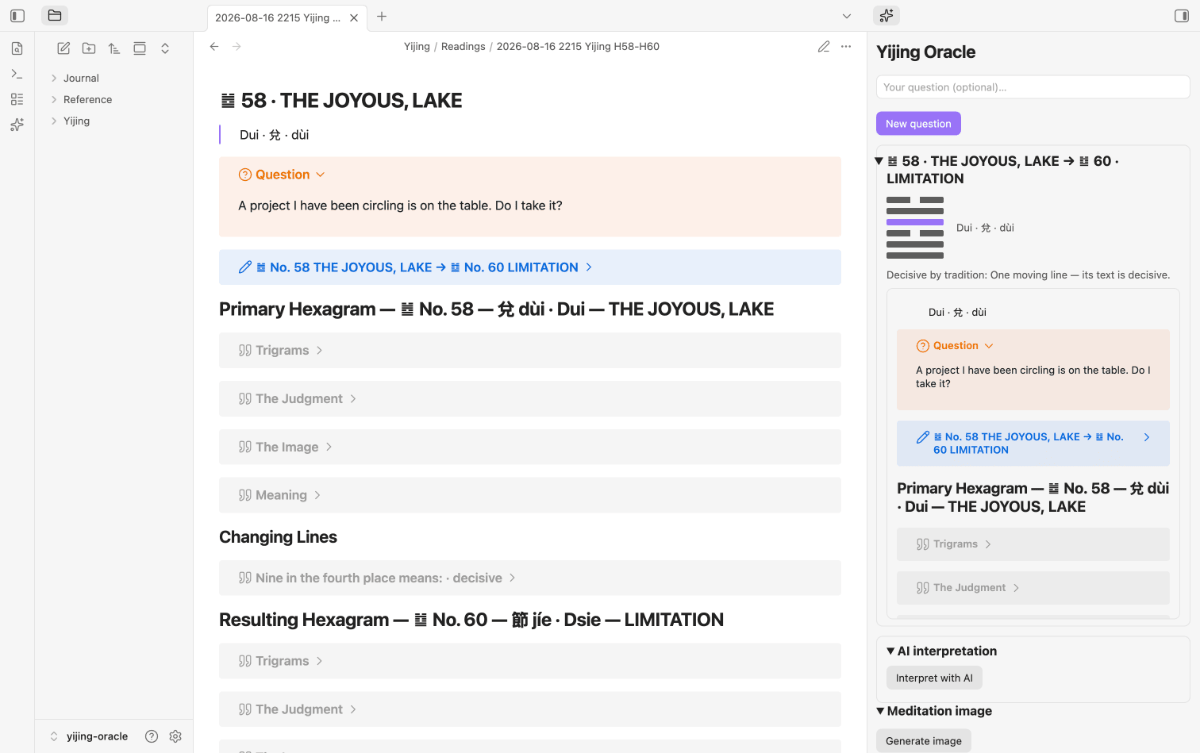
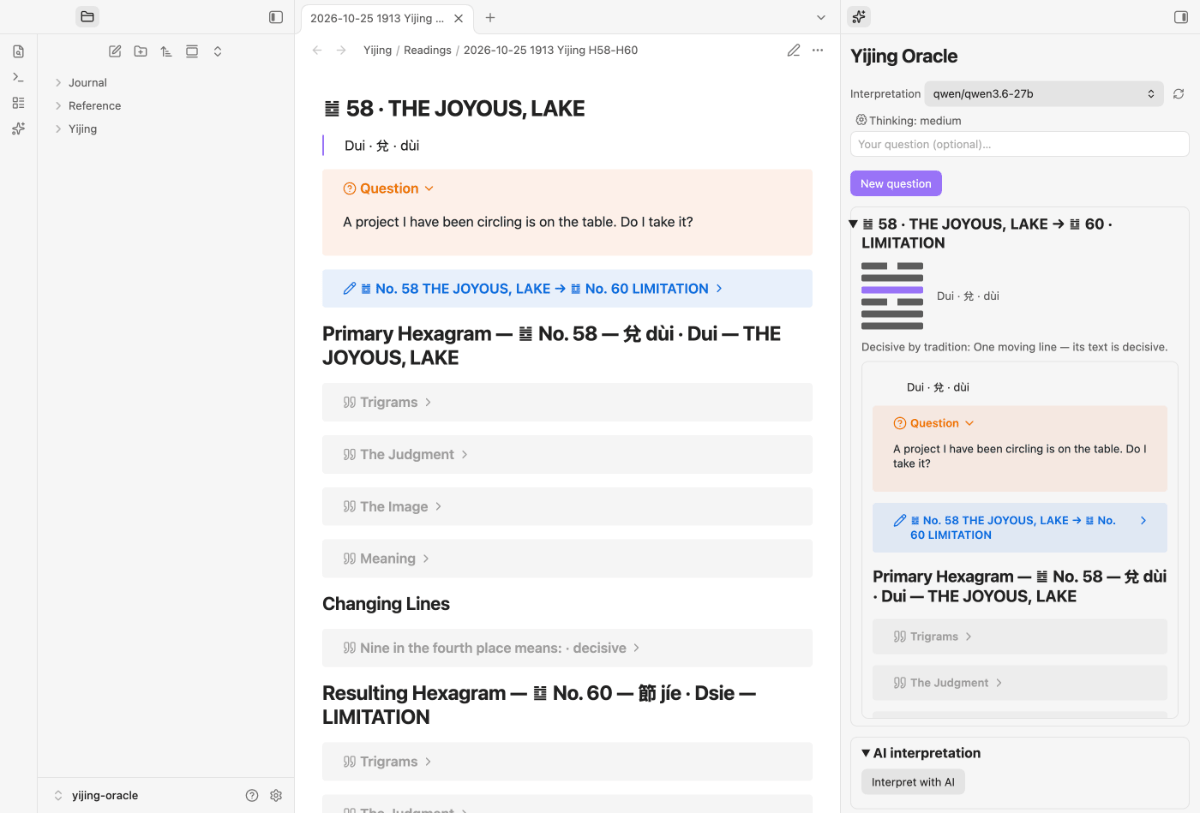
docs(images): hero.png und panel.png mit Modellzeile neu, Bild-Vertrag und SMOKE.md (Z-a bis Z-i, K-a bis K-c, Mutationsproben)
interpretation.png und artwork.png schneiden nur ihren Kasten aus und zeigen die Zeile nicht: unveraendert. Sichtung hell und dunkel bei 260 und 420 px: nichts laeuft ueber, lesbar.

diff --git a/docs/SMOKE.md b/docs/SMOKE.md
@@ -63,6 +63,8 @@ Er läuft im Staging-Vault `yijing-oracle` (`$STAGING_VAULTS_DIR`), nie im Arbei
 | N1–N6 | Abschnitt „Anfrage“ (Sampling-Profile, Modus creative): klappt auf · Bearbeitungen bleiben offen · gesendeter Body folgt Defaults und Einstellungen · Zurücksetzen · „Letzte Anfrage“ | — |
 | V1–V9 | Verbindung (Kit 0.53.0): eine Zeile mit Klartext-Schlüssel landet nach `resolve` im Schlüsselbund und nicht in `data.json` · der Schlüssel geht als Bearer an den Endpunkt · ein Geheimnis in der Frage geht als Platzhalter an den Draht (nicht im Klartext) und kommt in der Deutung im Original zurück · eine Antwort mit Bild-URL und Platzhalter erzeugt kein `img` · ein `dataviewjs`-Block rendert als Text · V9: eine Zeile ohne Modell bekommt das erste Listenmodell über `setModel` | — (neu mit dem Verbindungs-Tausch; Gegenproben: Neutralisierung entfernt → V5/V6 rot, `redact: false` → V3/V4 rot) |
 | V7–V8 | Gespeicherte Deutung: die Notiz trägt die entschärfte Form (```` ```text ```` statt `dataviewjs` und `mermaid`, kein Fernbild, auch nicht als Referenz-Definition mit Zeilenumbruch im Label), und der Zähler am Draht des Fake-Servers bleibt beim Speichern 0 | — (Gegenprobe code-kit 0.16.0 im Vendor: V7/V8 rot, `GET /pixel` 2) |
+| Z-a–Z-i | Modellzeile (Kit `buildModelBar`, Welle 27; Stub mit drei Modellen): genau eine Zeile direkt unter dem Titel mit `aria-label` (a) · das Dropdown listet die Modelle plus Automatisch (b) · ein Wechsel geht als Modell an den Draht (c) · gesperrt, solange die Deutung streamt, danach frei (d) · gesperrt auch im Fenster zwischen Klick und Streambeginn (ein TCP-Vorsatz verzögert jede Anfrage um 1,5 s; der Stream-Bereich ist da noch nicht gebaut) (d2) · die Denk-Steuerung steht in der Zeile, kein zweiter Knopf (e) · bei 260 px Panelbreite läuft nichts über den Rand (f) · ein Modell- und Denkstufen-Wechsel außerhalb der Zeile erscheint in ihr, ohne dass das Panel neu zeichnet (Marke am Element bleibt) (g) · nach Wurf, Deutung und Abbruch bleibt es bei einer Zeile (h) · nach einem Start ohne Endpunkt (Frühausstieg ohne Neuzeichnen) ist die Zeile wieder frei (i) | — (Welle 27; Mutationsproben unten) |
+| K-a–K-c | Linkschutz der Deutung (Kit `dom-guard`, obsidian-kit 0.70.0): im Default verlieren `obsidian://`-, `file:`- und `app:`-Links der fertigen Deutung ihr Ziel, ein https-Link behält es (a) · mit dem Schalter bleibt der `obsidian://`-Link, `file:` und `app:` gehen weiter (b) · die zwei Zeilen stehen im Einstellungen-Tab, ein Klick auf den Schalter schreibt sein Feld (c) | — (Welle 27) |
 
 > [!bug] M1 war bis 2026-10-09 rot, ohne je gemessen zu haben
 > `wurzelAusdruck(ui)` lieferte im Einstellungen-Fenster `document`, und `Document.textContent` ist immer `null`: M1 las den Leerstring, fand den Manager-Text „nicht“ und blieb rot — die Baseline führte das als vorbestehenden Plugin-Befund. Gemessen wird jetzt an `document.body`, und M1/M3 warten, bis der Tab gezeichnet ist. **Ein Prüfpunkt, der immer rot ist, hat seinen Prüfling vielleicht nie berührt** (CORE-TEST-15). Der Cockpit-Befund „Settings-Tab zeigt einen neu installierten Manager nicht sofort“ stammte aus genau dieser Fehlmessung; M1b misst den Fall (Tab gecacht, Manager danach installiert, Rückkehr von einem anderen Tab) mit gültiger Leseart und ist grün.
@@ -213,10 +215,30 @@ beide**:
 > Fehler, die in ihm stecken** — der zweite war zwei Wochen unsichtbar, weil der erste ihn nie
 > zur Ausführung kommen ließ.
 
+
+## Mutationsproben der Modellzeile und des Linkschutzes (Welle 27, 2026-10-25)
+
+Je eine Änderung im Quelltext, ein voller Lauf, danach zurückgestellt. Ergebnis „n von m“ = rote Punkte, die dazugehören, von allen roten.
+
+| Probe | Ergebnis |
+|---|---|
+| `bar.update()` nach `starting = true` entfernt | Z-d2 rot, 1 von 1 |
+| `bar.update()` im `finally` entfernt (Frühausstieg) | Z-i rot, 1 von 1 |
+| Nachziehen in `saveSettings` entfernt | Z-g rot, 1 von 1 |
+| `disabled` der Zeile entfernt | Z-d und Z-d2 rot, 2 von 2 |
+| `setModel` der Zeile wirkungslos | Z-c rot, 1 von 1 |
+| `destroy()` der alten Zeile vor dem Neubau entfernt | Smoke nicht unterscheidbar (0 rot): `root.empty()` entfernt die alte Wurzel im Panel ohnehin; die Unit-Probe (a) ist rot, 1 von 1 |
+| Wächter durch `MarkdownRenderer.render` ersetzt | K-a und K-b rot, 2 von 2 |
+| `allowObsidianLinks` im Aufruf fest `false` | K-b rot, 1 von 1 |
+| Gruppe „Links und Bilder in Antworten“ aus dem Tab entfernt | K-c rot, 1 von 1 |
+
+Die Unit-Tests (`tests/model-row.test.ts`, `tests/link-settings.test.ts`) fahren eigene Proben: acht an der Modellzeile (alle rot), fünf an den Link-Einstellungen (alle rot).
+
 ## Durchläufe
 
 | Datum | Obsidian | Ergebnis | Gegenprobe |
 |---|---|---|---|
+| 2026-10-25 | 1.14.5, Pin obsidian-kit 0.70.0 / code-kit 0.37.5, Lock `focus` bestätigt | **87 grün · 0 rot · 1 übersprungen (D10 ohne `--lig`) · 1 nichts gemessen (M4 ohne `--model`) von 89** (Baseline vor der Welle 74/0/1/1 von 76; neu Z-a–Z-i und K-a–K-c) | ✅ Mutationsproben der Modellzeile und des Linkschutzes: Tabelle oben. Die Proben liefen ohne bestätigten Lock (Skriptfehler, behoben), der Lauf in dieser Zeile unter bestätigtem Lock |
 | 2026-09-02 (3) | 1.13.7 (Catalyst), ohne Bildlauf | **27/27 · 2 Abschnitte nicht gelaufen** | ✅ Guard-Platzierung korrigiert (vor dem `try` → früh **im** `try`) und verifiziert: der Abbruchlauf zeigt jetzt die Aufräum-Ausgabe, `cdp.close()` läuft. Dabei fiel die `0/0 bestanden`-Bilanz auf (Exit wäre 0 gewesen) — behoben, Abbruch meldet jetzt „KEIN Pruefpunkt gelaufen“ mit Exit 1. Bestätigungslauf danach: 27/27, `npm-exit=0` |
 | 2026-09-02 (2) | 1.13.7 (Catalyst), ohne Bildlauf | **27/27 · 2 Abschnitte nicht gelaufen** | ✅ **Herkunfts-Guard im Positivfall gesehen**, mit dem eigenen Einbau: eine Kommentarzeile an die Vault-`main.js` (gültiges JS, das Plugin lief weiter) → Abbruch mit Byte- und sha1-Vergleich, **kein Prüfpunkt lief**. 101 Bytes reichten. Danach deployt → wieder still, 27/27. Damit ist sein Schweigen ein Messwert: „Build ist echt“, nicht „Guard tot“ |
 | 2026-09-02 | 1.13.7 (Catalyst), ohne Bildlauf (`--kein-bild`) | **27/27** | ✅ zwei Sabotagen **einzeln** gefahren, je genau ein Punkt rot und kein zweiter mit: `aliases` entfernt → F6 rot (26/27), Maskierung entfernt → F7 rot (26/27). **F6 war dabei zuerst blind** (s. o.) — der Fehler fiel nur auf, weil der Punkt trotz Sabotage grün BLIEB. Herkunft belegt: Drei-Datei-Hash vor jedem Lauf + Guard still. Staging-Vault `yijing-oracle`, nicht Pallas |

diff --git a/docs/images/README.md b/docs/images/README.md
@@ -10,8 +10,8 @@ hier **nicht** wiederholt: `_docs/readme/readme-spec.json`, Block `images`.
 
 | Datei | Klasse | referenziert von | muss zeigen |
 |---|---|---|---|
-| `hero.png` | hero | `README.md`, `README.de.md` | Das ganze Fenster: eine gespeicherte Befragung als Notiz im Lesemodus, rechts das Orakel-Panel mit demselben Wurf. Die Aussage ist die Verbindung — Orakel **und** Vault-Notiz, nicht nur ein Panel. |
-| `panel.png` | detail | `README.md`, `README.de.md` | Das Panel allein: Frage-Feld, Wurf-Knopf, das Hexagramm als sechs Linien, Name und Zeichen, die Weissagungs-Vorschau, Speichern-Knöpfe. Hoch und schmal — als Vorschaubild eingebettet. |
+| `hero.png` | hero | `README.md`, `README.de.md` | Das ganze Fenster: eine gespeicherte Befragung als Notiz im Lesemodus, rechts das Orakel-Panel mit demselben Wurf und der Modellzeile. Die Aussage ist die Verbindung — Orakel **und** Vault-Notiz, nicht nur ein Panel. |
+| `panel.png` | detail | `README.md`, `README.de.md` | Das Panel allein: die Modellzeile (Modell-Dropdown des Endpunkts und Denk-Schalter) unter dem Titel, Frage-Feld, Wurf-Knopf, das Hexagramm als sechs Linien, Name und Zeichen, die Weissagungs-Vorschau, Speichern-Knöpfe. Hoch und schmal — als Vorschaubild eingebettet. |
 | `reading-note.png` | feature | `README.md`, `README.de.md` | Die erzeugte Notiz im Lesemodus, so weit sichtbar, dass die Gliederung erkennbar ist: Frage, Überblick, Wandlung, die Callouts für Ursprung und wandelnde Linien. |
 | `interpretation.png` | feature | `README.md`, `README.de.md` | Den Deutungs-Kasten im Panel mit einer **fertigen** Antwort eines lokalen Modells, darüber die aufklappbare Denkspur. Belegt, dass die Deutung im Panel lebt und nicht in einem Modal. |
 | `artwork.png` | feature | `README.md`, `README.de.md` | Den Bildmeditations-Kasten mit einem **echt erzeugten** Bild, darunter den Szenen-Satz und den Knopf zum Neu-Generieren. |
@@ -35,6 +35,7 @@ npm run shots -- --list       # Vertrag anzeigen
 - **Das Plugin local-image-generator** im Aufnahme-Vault, installiert, aktiviert und mit einem laufenden Bildmodell eingerichtet — `artwork.png` zeigt ein echt erzeugtes Bild, kein Platzhalter. Fehlt das Plugin oder ist es nicht bereit, fehlt das Bild (und `shots:check` meldet es). Das Aufnahme-Rezept legt es nicht selbst an.
 - **Ein OpenAI-kompatibler LLM-Endpunkt** unter `http://127.0.0.1:1234` für
   `interpretation.png`. Dasselbe gilt: kein Server, kein Bild.
+- Die Modellzeile in `hero.png` und `panel.png` zeigt das Modell, das der Endpunkt unter `--llm-endpoint` listet (`--model <id>` wählt eines aus der Liste; ohne Angabe ein Eintrag, den der Server nicht führt, mit dem Zusatz „gespeichert“). Aufgenommen mit `--model qwen/qwen3.6-27b` gegen den LM Studio des Maintainers; `interpretation.png` und `artwork.png` schneiden nur ihren Kasten aus und zeigen die Zeile nicht, sie ändern sich mit ihr nicht.
 - Die Aufnahme-Sprache ist **Englisch**. Sie ist app-weit, nicht vault-weit — der Treiber
   stellt sie um und **nach dem Lauf wieder zurück**, sonst startet der Arbeits-Vault des
   Maintainers auf Englisch.
